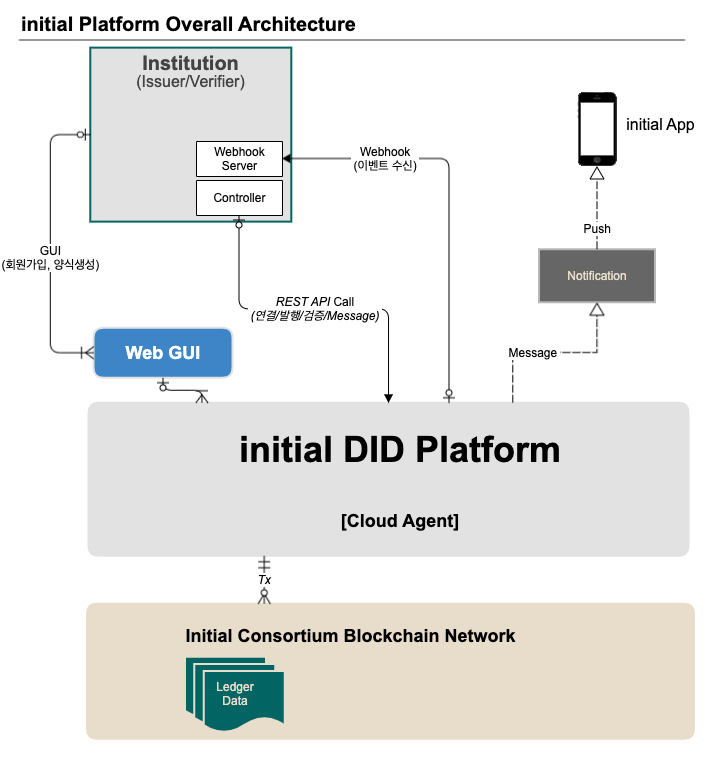
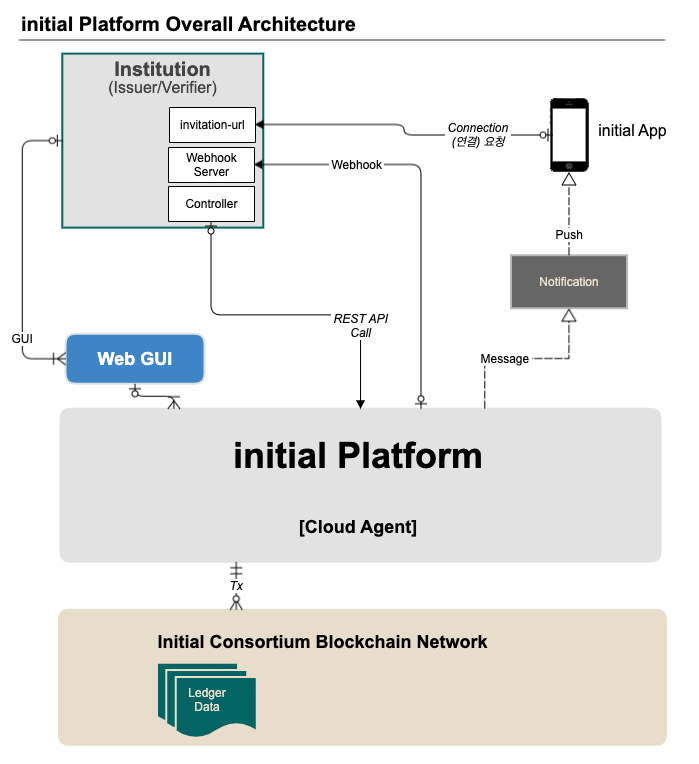
v1.2.1 invitation API server 개발 guide 추가

diff --git a/docs/web_console_guide.md b/docs/web_console_guide.md
@@ -3,20 +3,27 @@
 ![platform arch](img/initial_platform_architecture.png)
 
 ## 기관 참여자 구현/개발이 필요 항목 
-위 그림에서 기관사용자 영역의 3개 항목에 대해서 구현 필요
+위 그림을 참고하여 기관사용자 영역의 3개 항목에 대해서 구현 필요
 
-1. DID Agent API 요청 Controller 서버
-2. Event 수신 Webhook 서버
-3. 참여사 개인정보 수집 및 이용 동의서 전달 
+1. 연결(Connection)요청 API
+2. DID Agent API 요청 Controller 서버
+3. Event 수신 Webhook 서버
+4. 참여사 개인정보 수집 및 이용 동의서 전달 
 
+### 1. 연결 요청 API 개발 안내
+- 기관사용자는 initial App과 최초 연결(connection)을 위해 초대장(invitation)을 생성할 수 있는 API를 제공해야 한다.
+- 각각의 연결요청 API는 initial App내의 증명서발행/검증 icon과 매칭되기 때문에, 연결요청은 발행양식/검증양식마다 각각 API 생성이 필요하다.
+- 연결요청을 위한 기본 domain 주소를 플랫폼에 등록하면, 양식이 생성될때 마다 ```기관제공연결요청url``` + ```발행/검증양식ID``` 형식의 규격화된 url을 자동생성해서 제공한다. (예제 http://기관등록연결요청url/BsCP2xiQBjWmvWw1uHZRsP:3:CL:1602080133:SK대학교 )
+- 기관 사용자는 플랫폼에서 제공하는 url으로 API server를 제공해야 한다.
+- 개발 예제는 https://github.com/sktston/acapy-controller-java/blob/master/src/main/java/com/sktelecom/ston/controller/faber/GlobalController.java 참고
 
-### 1. DID Agent Controller 개발 안내 
+### 2. DID Agent Controller 개발 안내 
 - 기관사용자는 DID Agent REST API를 사용하기 위해 controller 서버를 개발해야 한다.
 - Webhook 서버를 통해 전달된 event에 따라 다음 action을 구현한다.
 - 자세한 API 내용은 initial DID Agent API Guide 및 reference code 참조 
 
   
-### 2. Webhook 서버 개발 안내 
+### 3. Webhook 서버 개발 안내 
 - initial DID Platform의 DID Agent는 Event Driven(이벤트 구동형) 방식이기 때문에 기관 사용자는 Webhook 서버를 개발하고 url 등록해아 한다.
 
 - initial DID Agent는 event driven 방식으로 REST API 요청에 대한 응답을 Webhook 서버로 전달합니다
@@ -25,7 +32,7 @@
 - 기관 사용자는 보안강화를 위한 IP기반 방화벽 설정 하세요 (initial DID platform의 IP대역 xxx.xxx.xxx.xxx/24는 별도로 안래 예정입니다)
 - Webhook 서버 예제는 아래 reference code (DID 발행/검증 Demo)에서 확인할 수 있습니다. 
 <br><br>
-#### 2-1. Webhook 구현
+#### 3-1. Webhook 구현
 
 - initial DID platform의 webhook은 topic, body로 전달된다. 
 - 참고 1 : https://github.com/sktston/acapy-controller-java/blob/develop/src/main/java/com/sktelecom/ston/controller/faber/GlobalService.java
@@ -38,12 +45,12 @@ body | response | body:{"my_did": "PJRSPwhWdnGJp7CvifXpkw", "their_role": "invit
 
 body의 `state`는 이후 다음 action을 위해 중요하게 활용 됨. 
 
-#### 2-2. Webhook서버 Controller API 예시 
+#### 3-2. Webhook서버 Controller API 예시 
 
 - @PostMapping("/webhooks/topic/{topic}")
 - 등록한 webhook url 뒤에 전달되는 topic을 확인 후 다음 action을 진행하면 된다.
 
-#### 2-3. Webhook topic의 종류 및 next action 
+#### 3-3. Webhook topic의 종류 및 next action 
  
 topic | state | description | next action
 --- | --- | --- | ---
@@ -59,7 +66,7 @@ revocation_registry | posted | RevocationRegistry record 생성 완료 | No Acti
 problem_report | | | 에러 확인 
 
 
-### 3. 참여사 개인정보 수집 및 이용 동의서 조회 전달 구현 안내 
+### 4. 참여사 개인정보 수집 및 이용 동의서 조회 전달 구현 안내 
 - 모바일 initial App에서 참여사에게 본인확인증명을 제출하기 전 개인정보 수집 및 이용 동의를 받기 위해, 동의서 전달이 필요하다. 
 - 동의서 전달은 DID Agent의 Message 전달 API를 이용한다. 상세 내용은 Message API 참조.
 

diff --git a/docs/open_api_message.md b/docs/open_api_message.md
@@ -58,12 +58,17 @@ consentperiod | String | 보유/이용기간 및 파기
 
 ```json
 {
-  "content": "개인정보 수집 및 이용 동의서",
-  "agreement": "Initial 서비스(이하 \u201c서비스\u201d라 한다)와 관련하여, 본인은 동의내용을 숙지하였으며, 이에 따라 본인의 개인정보를 (주)XXXX가 수집 및 이용하는 것에 대해 동의합니다.\n\n본 동의는 서비스의 본질적 기능 제공을 위한 개인정보 수집/이용에 대한 동의로서, 동의를 하는 경우에만 서비스 이용이 가능합니다.\n\n법령에 따른 개인정보의 수집/이용, 계약의 이행/편익제공을 위한 개인정보 취급위탁 및 개인정보 취급과 관련된 일반 사항은 서비스의 개인정보 처리방침에 따릅니다.",
-  "collectiontype": "이름,생년월일",
-  "usagepurpose": "서비스 이용에 따른 본인확인",
-  "consentperiod": "1년",
-}
+     "type" : "agreement"
+     "content" :
+  
+     {
+         "title": "개인정보 수집 및 이용 동의서",
+         "agreement": "Initial 서비스(이하 \u201c서비스\u201d라 한다)와 관련하여, 본인은 동의내용을 숙지하였으며, 이에 따라 본인의 개인정보를 (주)XXXX가 수집 및 이용하는 것에 대해 동의합니다.\n\n본 동의는 서비스의 본질적 기능 제공을 위한 개인정보 수집/이용에 대한 동의로서, 동의를 하는 경우에만 서비스 이용이 가능합니다.\n\n법령에 따른 개인정보의 수집/이용, 계약의 이행/편익제공을 위한 개인정보 취급위탁 및 개인정보 취급과 관련된 일반 사항은 서비스의 개인정보 처리방침에 따릅니다.",
+         "collectiontype": "이름,생년월일",
+         "usagepurpose": "서비스 이용에 따른 본인확인",
+         "consentperiod": "1년",
+     }
+ }
 ```
 
 <p></p>
@@ -93,14 +98,15 @@ consentperiod | String | 보유/이용기간 및 파기
 ```json
 body:
 {
-"connection_id": "77d34f1a-f386-4f18-a8e4-349d87280350", 
-"message_id": "ac0a9621-6e40-4d18-b832-5676db8b4ca9", 
-"content": 
-  {
-  "agree_yn": "Y",
-  "signature":"xcvsdfasdfgawdgasdgasdgsdagasdgasdgdsg"
-  }, 
-"state": "received"
+    "connection_id": "77d34f1a-f386-4f18-a8e4-349d87280350",
+    "message_id": "ac0a9621-6e40-4d18-b832-5676db8b4ca9",
+    "content":
+        {
+            "type" : "agreement_decision"
+            "agree_yn": "Y",
+            "signature":"xcvsdfasdfgawdgasdgasdgsdagasdgasdgdsg"
+        },
+    "state": "received"
 }
 ```
 

diff --git a/docs/index.md b/docs/index.md
@@ -1,4 +1,4 @@
-Document version : v1.1.1 (last updated 2021-02-16)
+Document version : v1.2.1 (last updated 2021-03-03)
 
 Welcome to initial DID Platform Developer Site
 ===============
